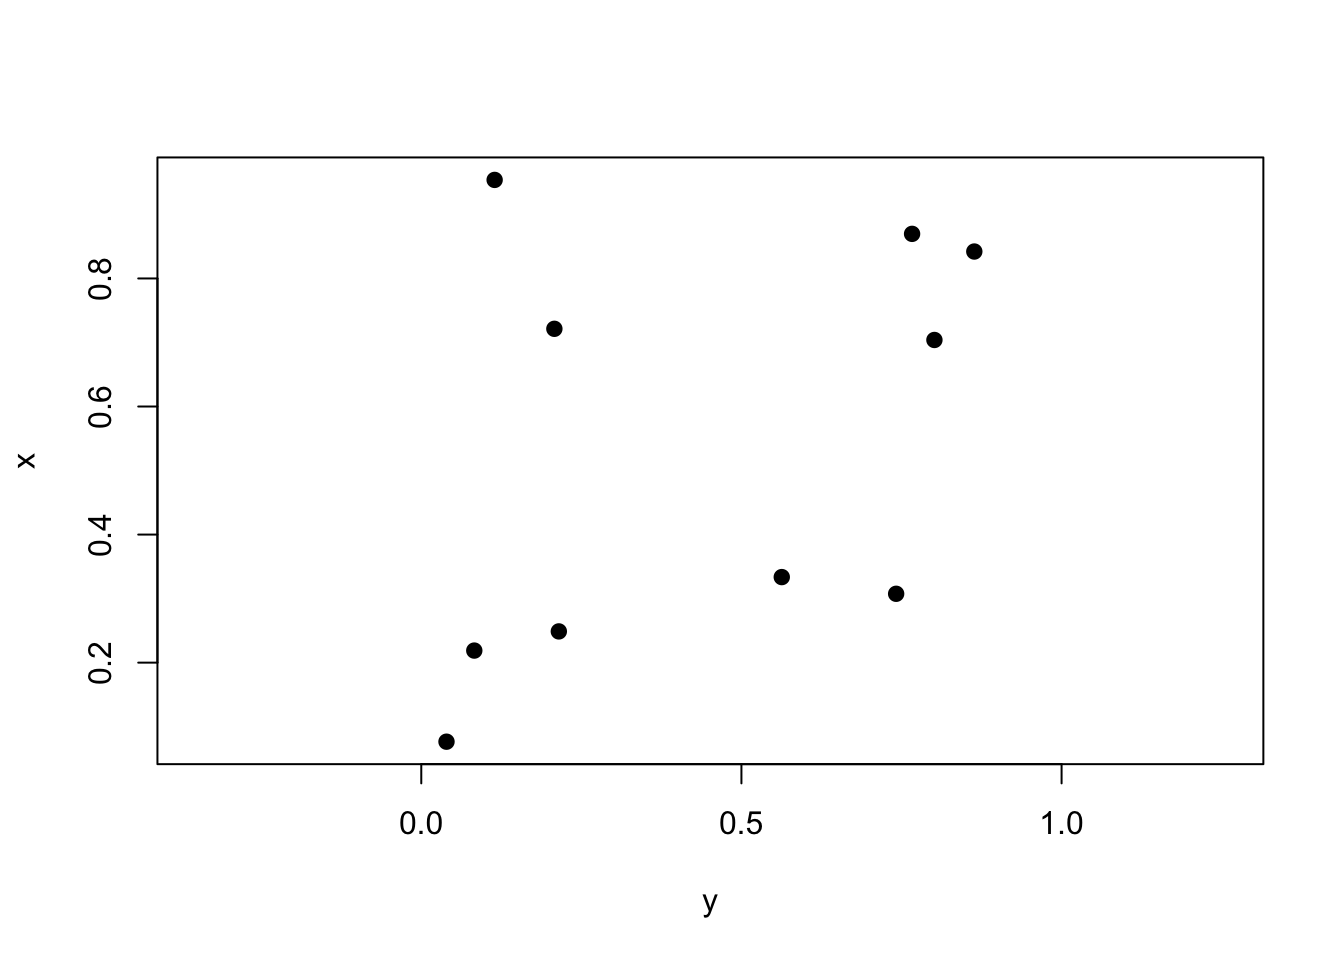
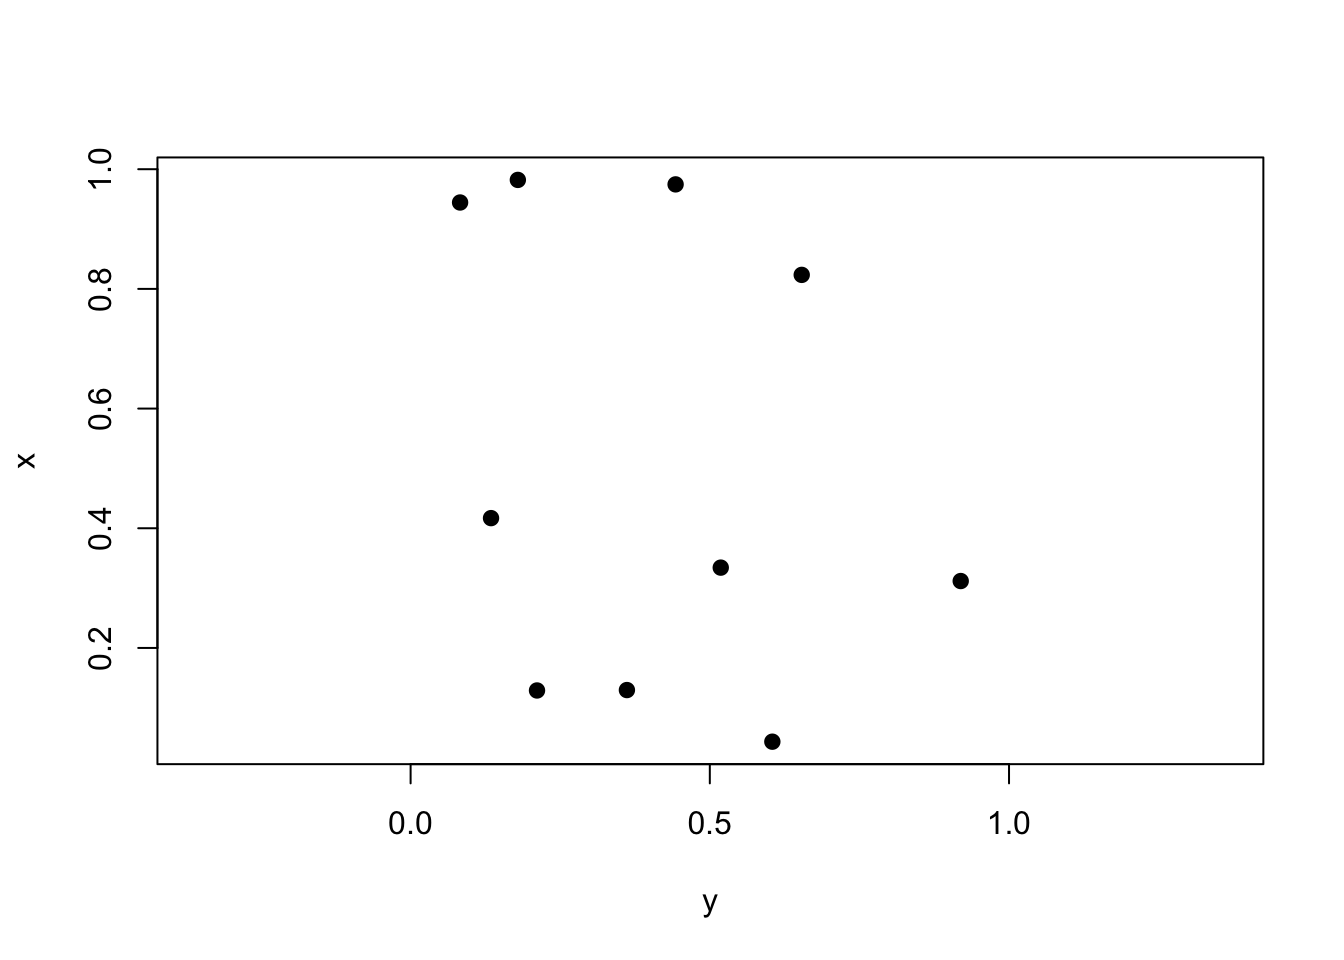
Updated correlation code

diff --git a/docs/cor_reg.html b/docs/cor_reg.html
@@ -409,7 +409,7 @@ window.Quarto = {
 <div class="sourceCode cell-code" id="cb11"><pre class="sourceCode r code-with-copy"><code class="sourceCode r"><span id="cb11-1"><a href="#cb11-1" aria-hidden="true" tabindex="-1"></a><span class="fu">cor</span>(y, x) <span class="sc">%&gt;%</span> </span>
 <span id="cb11-2"><a href="#cb11-2" aria-hidden="true" tabindex="-1"></a>  <span class="fu">round</span>(<span class="dv">2</span>)</span></code><button title="Copy to Clipboard" class="code-copy-button"><i class="bi"></i></button></pre></div>
 <div class="cell-output cell-output-stdout">
-<pre><code>[1] 0.4</code></pre>
+<pre><code>[1] -0.27</code></pre>
 </div>
 </div>
 <section id="pearsons" class="level3" data-number="11.2.1">
@@ -447,34 +447,66 @@ r = \frac{\Sigma xy - (\frac{\Sigma x \Sigma y}{n})}{\sqrt{(\Sigma x^2 - \frac{(
 <p>Well, we can calculate two things - the <em>amount of variation explained</em>, which is <span class="math inline">\(r^2\)</span>, and the <em>significance of the relationships</em>, which is determined via a <span class="math inline">\(t\)</span> test and the equation <span class="math inline">\(t=r \sqrt{\frac{n-2}{1-r^2}}\)</span>. This is a two-tailed distribution, with <span class="math inline">\(df = n-2\)</span>.</p>
 <p>We can write a function to perform all of these options:</p>
 <div class="cell">
-<div class="sourceCode cell-code" id="cb16"><pre class="sourceCode r code-with-copy"><code class="sourceCode r"><span id="cb16-1"><a href="#cb16-1" aria-hidden="true" tabindex="-1"></a>biol305_cor <span class="ot">&lt;-</span> <span class="cf">function</span>(x, y, method){</span>
-<span id="cb16-2"><a href="#cb16-2" aria-hidden="true" tabindex="-1"></a>  r <span class="ot">&lt;-</span> <span class="fu">cor</span>(x, y, <span class="at">method =</span> method)</span>
-<span id="cb16-3"><a href="#cb16-3" aria-hidden="true" tabindex="-1"></a>  </span>
-<span id="cb16-4"><a href="#cb16-4" aria-hidden="true" tabindex="-1"></a>  n <span class="ot">&lt;-</span> <span class="fu">length</span>(x)</span>
-<span id="cb16-5"><a href="#cb16-5" aria-hidden="true" tabindex="-1"></a>  </span>
-<span id="cb16-6"><a href="#cb16-6" aria-hidden="true" tabindex="-1"></a>  t_val <span class="ot">&lt;-</span> r<span class="sc">*</span><span class="fu">sqrt</span>((n<span class="dv">-2</span>)<span class="sc">/</span>(<span class="dv">1</span><span class="sc">-</span>r<span class="sc">^</span><span class="dv">2</span>))</span>
-<span id="cb16-7"><a href="#cb16-7" aria-hidden="true" tabindex="-1"></a>  </span>
-<span id="cb16-8"><a href="#cb16-8" aria-hidden="true" tabindex="-1"></a>  p <span class="ot">&lt;-</span> <span class="fu">pt</span>(t_val, <span class="at">df =</span> n <span class="sc">-</span> <span class="dv">2</span>)</span>
-<span id="cb16-9"><a href="#cb16-9" aria-hidden="true" tabindex="-1"></a>  <span class="cf">if</span>(p <span class="sc">&gt;</span> <span class="fl">0.5</span>){p <span class="ot">&lt;-</span> <span class="dv">1</span> <span class="sc">-</span> p}</span>
-<span id="cb16-10"><a href="#cb16-10" aria-hidden="true" tabindex="-1"></a>  </span>
-<span id="cb16-11"><a href="#cb16-11" aria-hidden="true" tabindex="-1"></a>  <span class="cf">if</span>(p <span class="sc">&gt;</span> <span class="fl">0.005</span>){p <span class="ot">&lt;-</span> <span class="fu">round</span>(p, <span class="dv">2</span>)}</span>
-<span id="cb16-12"><a href="#cb16-12" aria-hidden="true" tabindex="-1"></a>  <span class="cf">if</span>(p <span class="sc">&gt;</span> <span class="fl">0.0005</span>){p <span class="ot">&lt;-</span> <span class="fu">round</span>(p, <span class="dv">3</span>)}</span>
-<span id="cb16-13"><a href="#cb16-13" aria-hidden="true" tabindex="-1"></a>  <span class="cf">if</span>(p <span class="sc">&gt;</span> <span class="fl">0.00005</span>){p <span class="ot">&lt;-</span> <span class="fu">round</span>(p, <span class="dv">4</span>)}</span>
-<span id="cb16-14"><a href="#cb16-14" aria-hidden="true" tabindex="-1"></a>  <span class="cf">if</span>(p <span class="sc">&lt;</span> <span class="fl">0.00005</span>){p <span class="ot">&lt;-</span> <span class="st">"&lt; 0.0001"</span>}</span>
-<span id="cb16-15"><a href="#cb16-15" aria-hidden="true" tabindex="-1"></a>  </span>
-<span id="cb16-16"><a href="#cb16-16" aria-hidden="true" tabindex="-1"></a>  <span class="fu">print</span>(<span class="fu">paste0</span>(<span class="st">"Correlation: "</span>, <span class="fu">round</span>(r, <span class="dv">2</span>)))</span>
-<span id="cb16-17"><a href="#cb16-17" aria-hidden="true" tabindex="-1"></a>  <span class="fu">print</span>(<span class="fu">paste0</span>(<span class="st">"Degrees of freedom: "</span>, n <span class="sc">-</span> <span class="dv">2</span>))</span>
-<span id="cb16-18"><a href="#cb16-18" aria-hidden="true" tabindex="-1"></a>  <span class="fu">print</span>(<span class="fu">paste0</span>(<span class="st">"t value: "</span>, <span class="fu">round</span>(t_val, <span class="dv">2</span>)))</span>
-<span id="cb16-19"><a href="#cb16-19" aria-hidden="true" tabindex="-1"></a>  <span class="fu">print</span>(<span class="fu">paste0</span>(<span class="st">"P value: "</span>, p))</span>
-<span id="cb16-20"><a href="#cb16-20" aria-hidden="true" tabindex="-1"></a>}</span></code><button title="Copy to Clipboard" class="code-copy-button"><i class="bi"></i></button></pre></div>
+<div class="sourceCode cell-code" id="cb16"><pre class="sourceCode r code-with-copy"><code class="sourceCode r"><span id="cb16-1"><a href="#cb16-1" aria-hidden="true" tabindex="-1"></a>biol305_cor <span class="ot">&lt;-</span> <span class="cf">function</span>(<span class="at">x=</span><span class="cn">NA</span>, <span class="at">y=</span><span class="cn">NA</span>, <span class="at">method =</span> <span class="st">"pearson"</span>){</span>
+<span id="cb16-2"><a href="#cb16-2" aria-hidden="true" tabindex="-1"></a>  <span class="cf">if</span>(<span class="fu">is.data.frame</span>(x)<span class="sc">==</span>T){</span>
+<span id="cb16-3"><a href="#cb16-3" aria-hidden="true" tabindex="-1"></a>    <span class="cf">if</span>(<span class="fu">ncol</span>(x)<span class="sc">==</span><span class="dv">2</span>){</span>
+<span id="cb16-4"><a href="#cb16-4" aria-hidden="true" tabindex="-1"></a>      r <span class="ot">&lt;-</span> <span class="fu">cor</span>(x[,<span class="dv">1</span>], x[,<span class="dv">2</span>], <span class="at">method =</span> method)</span>
+<span id="cb16-5"><a href="#cb16-5" aria-hidden="true" tabindex="-1"></a>    }<span class="cf">else</span>{</span>
+<span id="cb16-6"><a href="#cb16-6" aria-hidden="true" tabindex="-1"></a>      r <span class="ot">&lt;-</span> <span class="fu">cor</span>(x, <span class="at">method =</span> method)</span>
+<span id="cb16-7"><a href="#cb16-7" aria-hidden="true" tabindex="-1"></a>    }</span>
+<span id="cb16-8"><a href="#cb16-8" aria-hidden="true" tabindex="-1"></a></span>
+<span id="cb16-9"><a href="#cb16-9" aria-hidden="true" tabindex="-1"></a>    r2 <span class="ot">&lt;-</span> r</span>
+<span id="cb16-10"><a href="#cb16-10" aria-hidden="true" tabindex="-1"></a>    r[r<span class="sc">==</span><span class="dv">1</span><span class="sc">|</span>r<span class="sc">==-</span><span class="dv">1</span>] <span class="ot">&lt;-</span> <span class="dv">0</span></span>
+<span id="cb16-11"><a href="#cb16-11" aria-hidden="true" tabindex="-1"></a>    </span>
+<span id="cb16-12"><a href="#cb16-12" aria-hidden="true" tabindex="-1"></a>    n <span class="ot">&lt;-</span> <span class="dv">2</span><span class="sc">*</span><span class="fu">nrow</span>(x)</span>
+<span id="cb16-13"><a href="#cb16-13" aria-hidden="true" tabindex="-1"></a>  }<span class="cf">else</span>{</span>
+<span id="cb16-14"><a href="#cb16-14" aria-hidden="true" tabindex="-1"></a>    r <span class="ot">&lt;-</span> <span class="fu">cor</span>(x, y, <span class="at">method =</span> method)</span>
+<span id="cb16-15"><a href="#cb16-15" aria-hidden="true" tabindex="-1"></a>    </span>
+<span id="cb16-16"><a href="#cb16-16" aria-hidden="true" tabindex="-1"></a>    n <span class="ot">&lt;-</span> <span class="dv">2</span><span class="sc">*</span><span class="fu">length</span>(x)</span>
+<span id="cb16-17"><a href="#cb16-17" aria-hidden="true" tabindex="-1"></a>  }</span>
+<span id="cb16-18"><a href="#cb16-18" aria-hidden="true" tabindex="-1"></a>  </span>
+<span id="cb16-19"><a href="#cb16-19" aria-hidden="true" tabindex="-1"></a>  t_val <span class="ot">&lt;-</span> r<span class="sc">*</span><span class="fu">sqrt</span>((n<span class="dv">-2</span>)<span class="sc">/</span>(<span class="dv">1</span><span class="sc">-</span>r<span class="sc">^</span><span class="dv">2</span>))</span>
+<span id="cb16-20"><a href="#cb16-20" aria-hidden="true" tabindex="-1"></a>  </span>
+<span id="cb16-21"><a href="#cb16-21" aria-hidden="true" tabindex="-1"></a>  p <span class="ot">&lt;-</span> <span class="fu">pt</span>(t_val, <span class="at">df =</span> n <span class="sc">-</span> <span class="dv">2</span>)</span>
+<span id="cb16-22"><a href="#cb16-22" aria-hidden="true" tabindex="-1"></a>  </span>
+<span id="cb16-23"><a href="#cb16-23" aria-hidden="true" tabindex="-1"></a>  p[p <span class="sc">&gt;</span> <span class="fl">0.5</span>] <span class="ot">&lt;-</span> <span class="dv">1</span> <span class="sc">-</span> p[p <span class="sc">&gt;</span> <span class="fl">0.5</span>]</span>
+<span id="cb16-24"><a href="#cb16-24" aria-hidden="true" tabindex="-1"></a>  p[p <span class="sc">&gt;</span> <span class="fl">0.005</span>] <span class="ot">&lt;-</span> <span class="fu">round</span>(p[p <span class="sc">&gt;</span> <span class="fl">0.005</span>],<span class="dv">2</span>)</span>
+<span id="cb16-25"><a href="#cb16-25" aria-hidden="true" tabindex="-1"></a>  p[p <span class="sc">&gt;</span> <span class="fl">0.0005</span>] <span class="ot">&lt;-</span> <span class="fu">round</span>(p[p <span class="sc">&gt;</span> <span class="fl">0.0005</span>],<span class="dv">3</span>)</span>
+<span id="cb16-26"><a href="#cb16-26" aria-hidden="true" tabindex="-1"></a>  p[p <span class="sc">&gt;</span> <span class="fl">0.00005</span>] <span class="ot">&lt;-</span> <span class="fu">round</span>(p[p <span class="sc">&gt;</span> <span class="fl">0.00005</span>],<span class="dv">4</span>)</span>
+<span id="cb16-27"><a href="#cb16-27" aria-hidden="true" tabindex="-1"></a>  p[p <span class="sc">&lt;</span> <span class="fl">0.00005</span>] <span class="ot">&lt;-</span> <span class="st">"&lt; 0.0001"</span></span>
+<span id="cb16-28"><a href="#cb16-28" aria-hidden="true" tabindex="-1"></a>  </span>
+<span id="cb16-29"><a href="#cb16-29" aria-hidden="true" tabindex="-1"></a>  <span class="cf">if</span>(<span class="fu">is.data.frame</span>(x)<span class="sc">==</span>T){</span>
+<span id="cb16-30"><a href="#cb16-30" aria-hidden="true" tabindex="-1"></a>    <span class="fu">print</span>(<span class="st">"Correlation:"</span>)</span>
+<span id="cb16-31"><a href="#cb16-31" aria-hidden="true" tabindex="-1"></a>    <span class="fu">print</span>(<span class="fu">round</span>(r, <span class="dv">2</span>))</span>
+<span id="cb16-32"><a href="#cb16-32" aria-hidden="true" tabindex="-1"></a>    <span class="cf">if</span>(<span class="fu">ncol</span>(x) <span class="sc">==</span> <span class="dv">2</span>){</span>
+<span id="cb16-33"><a href="#cb16-33" aria-hidden="true" tabindex="-1"></a>      <span class="fu">print</span>(<span class="fu">paste0</span>(<span class="st">"Degrees of freedom: "</span>, n <span class="sc">-</span> <span class="dv">2</span>))</span>
+<span id="cb16-34"><a href="#cb16-34" aria-hidden="true" tabindex="-1"></a>      <span class="fu">print</span>(<span class="fu">paste0</span>(<span class="st">"t value: "</span>, <span class="fu">round</span>(t_val, <span class="dv">2</span>)))</span>
+<span id="cb16-35"><a href="#cb16-35" aria-hidden="true" tabindex="-1"></a>      <span class="fu">print</span>(<span class="fu">paste0</span>(<span class="st">"P value: "</span>, p))</span>
+<span id="cb16-36"><a href="#cb16-36" aria-hidden="true" tabindex="-1"></a>    }</span>
+<span id="cb16-37"><a href="#cb16-37" aria-hidden="true" tabindex="-1"></a>    <span class="cf">if</span>(<span class="fu">ncol</span>(x) <span class="sc">&gt;</span> <span class="dv">2</span>){</span>
+<span id="cb16-38"><a href="#cb16-38" aria-hidden="true" tabindex="-1"></a>      <span class="fu">print</span>(<span class="fu">paste0</span>(<span class="st">"Degrees of freedom: "</span>, n <span class="sc">-</span> <span class="dv">2</span>))</span>
+<span id="cb16-39"><a href="#cb16-39" aria-hidden="true" tabindex="-1"></a>      <span class="fu">print</span>(<span class="st">""</span>)</span>
+<span id="cb16-40"><a href="#cb16-40" aria-hidden="true" tabindex="-1"></a>      <span class="fu">print</span>(<span class="st">"t value: "</span>)</span>
+<span id="cb16-41"><a href="#cb16-41" aria-hidden="true" tabindex="-1"></a>      <span class="fu">print</span>(<span class="fu">round</span>(t_val, <span class="dv">2</span>))</span>
+<span id="cb16-42"><a href="#cb16-42" aria-hidden="true" tabindex="-1"></a>      <span class="fu">print</span>(<span class="st">""</span>)</span>
+<span id="cb16-43"><a href="#cb16-43" aria-hidden="true" tabindex="-1"></a>      <span class="fu">print</span>(<span class="st">"P value: "</span>)</span>
+<span id="cb16-44"><a href="#cb16-44" aria-hidden="true" tabindex="-1"></a>      <span class="fu">print</span>(p)</span>
+<span id="cb16-45"><a href="#cb16-45" aria-hidden="true" tabindex="-1"></a>    }</span>
+<span id="cb16-46"><a href="#cb16-46" aria-hidden="true" tabindex="-1"></a>  }<span class="cf">else</span>{</span>
+<span id="cb16-47"><a href="#cb16-47" aria-hidden="true" tabindex="-1"></a>    <span class="fu">print</span>(<span class="fu">paste0</span>(<span class="st">"Correlation: "</span>, <span class="fu">round</span>(r, <span class="dv">2</span>)))</span>
+<span id="cb16-48"><a href="#cb16-48" aria-hidden="true" tabindex="-1"></a>    <span class="fu">print</span>(<span class="fu">paste0</span>(<span class="st">"Degrees of freedom: "</span>, n <span class="sc">-</span> <span class="dv">2</span>))</span>
+<span id="cb16-49"><a href="#cb16-49" aria-hidden="true" tabindex="-1"></a>    <span class="fu">print</span>(<span class="fu">paste0</span>(<span class="st">"t value: "</span>, <span class="fu">round</span>(t_val, <span class="dv">2</span>)))</span>
+<span id="cb16-50"><a href="#cb16-50" aria-hidden="true" tabindex="-1"></a>    <span class="fu">print</span>(<span class="fu">paste0</span>(<span class="st">"P value: "</span>, p))</span>
+<span id="cb16-51"><a href="#cb16-51" aria-hidden="true" tabindex="-1"></a>  }</span>
+<span id="cb16-52"><a href="#cb16-52" aria-hidden="true" tabindex="-1"></a>}</span></code><button title="Copy to Clipboard" class="code-copy-button"><i class="bi"></i></button></pre></div>
 </div>
 <p>Let’s test our function.</p>
 <div class="cell">
 <div class="sourceCode cell-code" id="cb17"><pre class="sourceCode r code-with-copy"><code class="sourceCode r"><span id="cb17-1"><a href="#cb17-1" aria-hidden="true" tabindex="-1"></a><span class="fu">biol305_cor</span>(x, y, <span class="at">method =</span> <span class="st">"pearson"</span>)</span></code><button title="Copy to Clipboard" class="code-copy-button"><i class="bi"></i></button></pre></div>
 <div class="cell-output cell-output-stdout">
 <pre><code>[1] "Correlation: 0.86"
-[1] "Degrees of freedom: 13"
-[1] "t value: 6.09"
+[1] "Degrees of freedom: 28"
+[1] "t value: 8.93"
 [1] "P value: &lt; 0.0001"</code></pre>
 </div>
 </div>
